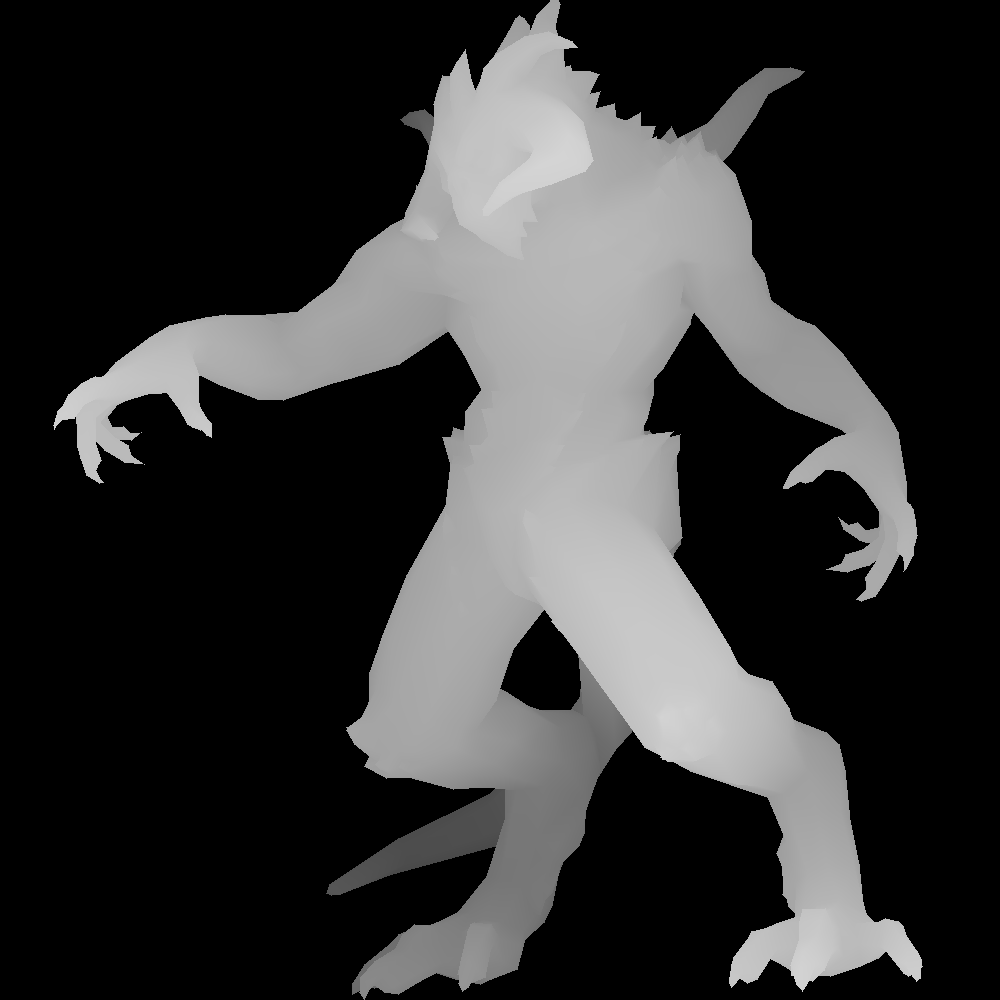
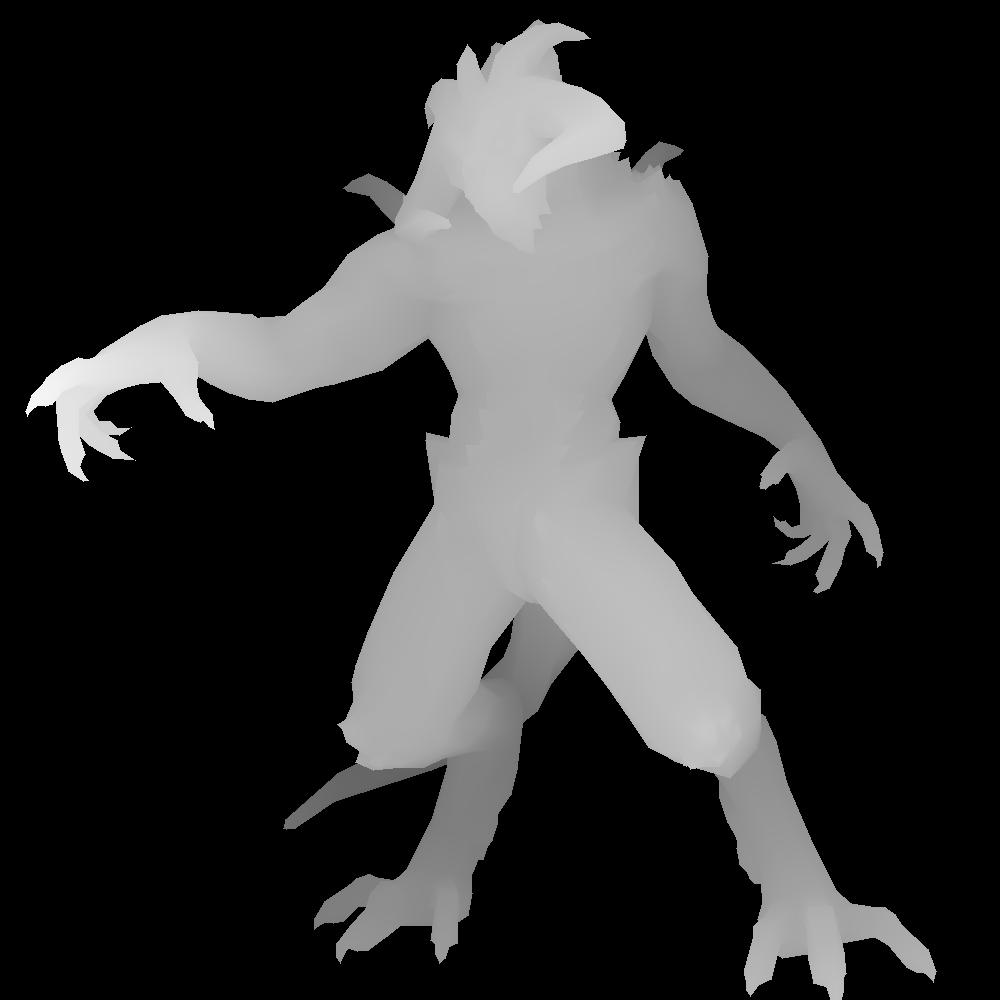
added matrix type

diff --git a/core/src/vec3.rs b/core/src/vec3.rs
@@ -1,4 +1,4 @@
-use std::ops::{Div, Mul};
+use std::ops::{Add, Div, Index, Mul};
 use crate::coordinate::Coordinate;
 
 #[derive(Clone, Copy)]
@@ -7,6 +7,9 @@ pub struct Vec3 {
     pub y: f32,
     pub z: f32,
 }
+
+#[derive(Clone, Copy)]
+pub struct Matrix3(pub [Vec3; 3]);
 
 impl Vec3 {
     pub fn new(x: f32, y: f32, z: f32) -> Self {
@@ -28,6 +31,11 @@ impl Vec3 {
     // pub fn signed_c_product(&self, b: Vec2) -> i32 {
     //     self.x * b.y - self.y * b.x
     // }
+}
+
+impl Index<usize> for Matrix3 {            // makes scores[i] work
+    type Output = Vec3;
+    fn index(&self, i: usize) -> &Vec3 { &self.0[i] }
 }
 
 impl Mul<Vec3> for Vec3 {
@@ -84,5 +92,30 @@ impl Div<f32> for Vec3 {
 
     fn div(self, rhs: f32) -> Self::Output {
         Vec3{x: self.x / rhs, y: self.y / rhs , z: self.z / rhs }
+    }
+}
+
+
+impl Add<Vec3> for Vec3 {
+    type Output = Vec3;
+
+    fn add(self, rhs: Vec3) -> Self::Output {
+        Vec3{ x: self.x + rhs.x, y: self.y + rhs.y, z: self.z + rhs.z }
+    }
+}
+
+impl Mul<Vec3> for Matrix3 {
+    type Output = Vec3;
+
+    fn mul(self, rhs: Vec3) -> Self::Output {
+        self[0] * rhs.x + self[1] * rhs.y + self[2] * rhs.z
+    }
+}
+
+impl Mul<Matrix3> for Vec3{
+    type Output = Vec3;
+
+    fn mul(self, rhs: Matrix3) -> Self::Output {
+        self.x * rhs[0] + self.y * rhs[1] + self.z * rhs[2]
     }
 }

diff --git a/core/src/model.rs b/core/src/model.rs
@@ -5,7 +5,7 @@ use crate::framebuffer::FrameBuffer;
 use crate::point::Point;
 use crate::rgb::RGB;
 use crate::triangle::{triangle, Triangle};
-use crate::vec3::Vec3;
+use crate::vec3::{Matrix3, Vec3};
 
 pub struct Model {
     v: Vec<Vec3>,
@@ -69,10 +69,14 @@ impl Model {
         for p in &mut self.v {
             let sin =  alpha.to_radians().sin();
             let cos =  alpha.to_radians().cos();
-            let x = p.z * -sin + p.x * cos;
-            let z = p.x * sin + p.z * cos;
-            p.z = z;
-            p.x = x;
+
+            let rotation: Matrix3 = Matrix3([
+                Vec3::new(cos, 0.0, sin),
+                Vec3::new(0.0, 1.0, 0.0),
+                Vec3::new(-sin, 0.0, cos)
+            ]);
+
+            *p = *p * rotation;
         }
     }
 

diff --git a/native/src/main.rs b/native/src/main.rs
@@ -1,3 +1,4 @@
+use minifb::Window;
 use renderer_core::export::ppm;
 use renderer_core::framebuffer::FrameBuffer;
 use renderer_core::model::Model;
@@ -9,8 +10,9 @@ fn main() {
     let mut depth_buffer = FrameBuffer::new(WIDTH, HEIGHT);
     //let mut model = Model::load("obj/african_head/african_head.obj");
     let mut model = Model::load("obj/diablo3_pose/diablo3_pose.obj");
-    model.rotate(330.0);
+    model.rotate(390.0);
     model.pers();
+
     model.draw(&mut depth_buffer);
 
     ppm(&depth_buffer, "depth.ppm");

diff --git a/NOTES.md b/NOTES.md
@@ -246,5 +246,12 @@ its just an extra buffer that holds the current z of each pixel, so when drawing
 ![img_3.png](img_3.png)
 
 
-## 23.10.26
+## 26.10.26
+**Rotation and perspective**
+Motivation is still really high as i also already have a cool game idea to implement when the renderer is finished.
+i implemented rotation first. for that i only whatched some videos on essense of linear algebra from 3blue1brown and then i calculated sin cos etc on my own which was fun. 
+perspective was also really intuitive and was no problem.
+as of now im making good progress but im getting a little demotivated documenting everything here.
 ![img_4.png](img_4.png)
+
+
